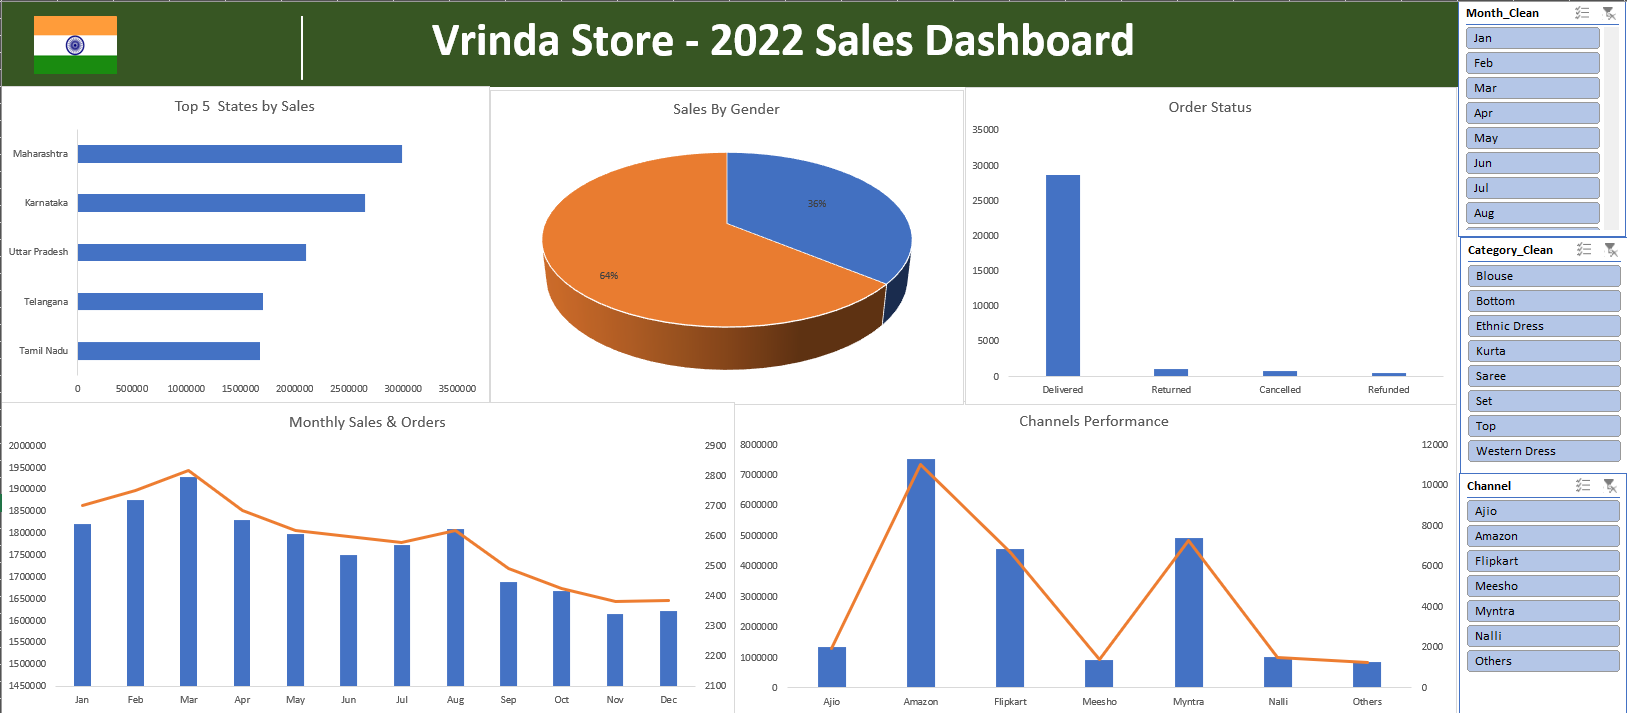
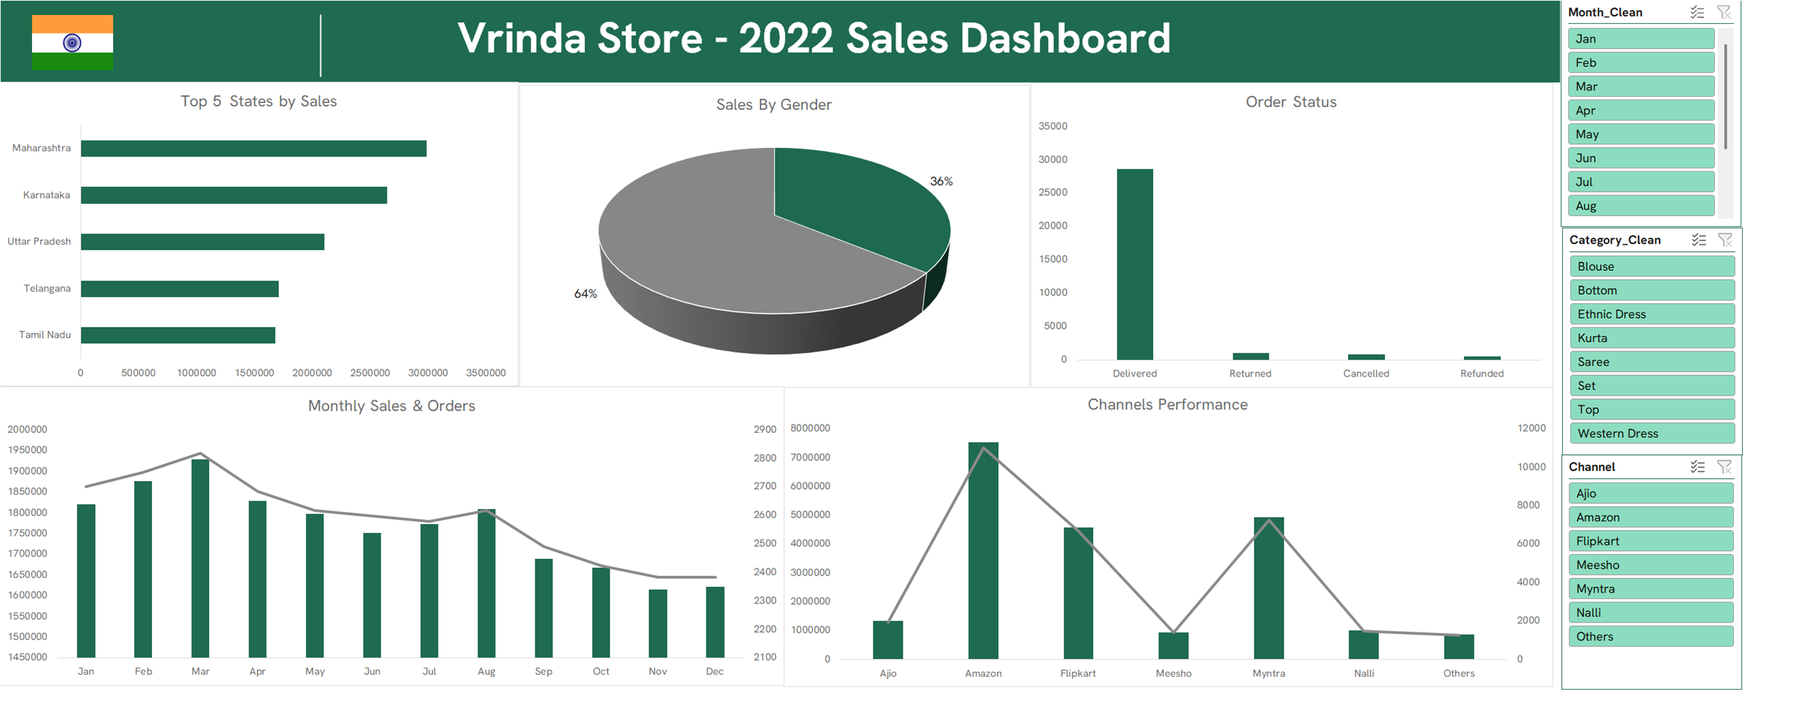
Dashboards re-themed to the brand (Hanken Grotesk, brand palette, green header); count-up on every headline figure
Excel copies re-themed and re-exported; originals kept. SDPI and NHS pages get the landing page's count-up,
and the two landing-page KPIs that stood still now count.

diff --git a/projects/sdpi-advance-funding-risk.html b/projects/sdpi-advance-funding-risk.html
@@ -140,7 +140,7 @@ html{scroll-behavior:smooth}body{margin:0}
             <div class="hero-grid">
               <div>
                 <div class="kicker">Strategic Default Pressure Index</div>
-                <div class="big">6.00<small>%</small></div>
+                <div class="big"><span data-countup>6.00</span><small>%</small></div>
                 <h2>The default-incentive threshold<span class="dot">.</span></h2>
                 <p>The market premium at which a supplier profits by not delivering.</p>
               </div>
@@ -155,9 +155,9 @@ html{scroll-behavior:smooth}body{margin:0}
           <div class="ctx"><b>One cocoa district, 2022/23 season.</b> 36 purchasing clerks funded against future delivery over 16 weeks (16 Sep to 30 Dec 2022), rebuilt from three dated risk reports on my own book. I carried the exposure personally, under bond.</div>
 
           <div class="tiles">
-            <div class="tile"><div class="n g">94.7%</div><div class="c">delivery recovery at season close, up from 80.0% at the opening report</div></div>
-            <div class="tile"><div class="n">83%</div><div class="c">of peak open exposure worked down (654 bags to 111) while funding kept growing</div></div>
-            <div class="tile"><div class="n g">4 of 36</div><div class="c">clerks carried half the open gap; 9 carried 80%; largest single 19.5%</div></div>
+            <div class="tile"><div data-countup class="n g">94.7%</div><div class="c">delivery recovery at season close, up from 80.0% at the opening report</div></div>
+            <div class="tile"><div data-countup class="n">83%</div><div class="c">of peak open exposure worked down (654 bags to 111) while funding kept growing</div></div>
+            <div class="tile"><div data-countup class="n g">4 of 36</div><div class="c">clerks carried half the open gap; 9 carried 80%; largest single 19.5%</div></div>
             <div class="tile"><div class="n">Net credit</div><div class="c">season closed GHS 9,468 in credit, from GHS 169,788 open, bond never drawn</div></div>
           </div>
 
@@ -291,6 +291,44 @@ html{scroll-behavior:smooth}body{margin:0}
     document.addEventListener('visibilitychange',function(){ document.hidden?stop():start(); });
   }
   document.addEventListener('DOMContentLoaded',function(){ hero(); reveal(); });
+})();
+</script>
+<script>
+(function(){
+  var reduce = window.matchMedia && window.matchMedia('(prefers-reduced-motion: reduce)').matches;
+  function countUp(){
+    var els=[].slice.call(document.querySelectorAll('[data-count],[data-countup]'));
+    if(!els.length) return;
+    function padFmt(n,pad){ var r=Math.round(n); return pad?String(r).padStart(pad,'0'):r.toLocaleString('en-US'); }
+    function parseNum(txt){
+      var m=txt.match(/^(.*?)(\d[\d,]*(?:\.\d+)?)(.*)$/); if(!m) return null;
+      var num=m[2], intRaw=num.split('.')[0];
+      return { prefix:m[1], suffix:m[3], target:parseFloat(num.replace(/,/g,'')),
+               dec:(num.split('.')[1]||'').length, comma:num.indexOf(',')>=0,
+               pad:/^0\d/.test(num)?intRaw.replace(/,/g,'').length:0 };
+    }
+    function fmtParsed(p,n){
+      var v=n.toFixed(p.dec), ip=v.split('.')[0], fp=p.dec?'.'+v.split('.')[1]:'';
+      if(p.comma) ip=parseInt(ip,10).toLocaleString('en-US');
+      else if(p.pad && ip.length<p.pad) ip=ip.padStart(p.pad,'0');
+      return p.prefix+ip+fp+p.suffix;
+    }
+    function animate(el){
+      if(el.dataset.done) return; el.dataset.done='1';
+      var f, target;
+      if(el.hasAttribute('data-count')){ target=parseFloat(el.getAttribute('data-count')); var pad=parseInt(el.getAttribute('data-pad')||'0',10); f=function(n){return padFmt(n,pad);}; }
+      else { var p=parseNum(el.textContent.trim()); if(!p) return; target=p.target; f=function(n){return fmtParsed(p,n);}; }
+      if(reduce){ el.textContent=f(target); return; }
+      var dur=1600, t0=performance.now();
+      function step(now){ var t=Math.min(1,(now-t0)/dur); el.textContent=f(target*(1-Math.pow(1-t,3))); if(t<1) requestAnimationFrame(step); }
+      el.textContent=f(0); requestAnimationFrame(step);
+    }
+    if('IntersectionObserver' in window){
+      var io=new IntersectionObserver(function(es){ es.forEach(function(e){ if(e.isIntersecting){ animate(e.target); io.unobserve(e.target); } }); }, {threshold:0.45});
+      els.forEach(function(el){ io.observe(el); });
+    } else { els.forEach(animate); }
+  }
+  document.addEventListener('DOMContentLoaded',countUp);
 })();
 </script>
 </body>

diff --git a/projects/nhs-cancer-pathway.html b/projects/nhs-cancer-pathway.html
@@ -112,15 +112,15 @@
 
       <div style="display:grid;grid-template-columns:repeat(3,1fr);gap:16px;margin:30px 0 0;">
         <div style="border:1px solid #e6e6e2;padding:22px 24px;">
-          <div style="font:800 34px 'Hanken Grotesk';letter-spacing:-.02em;">99.2%</div>
+          <div data-countup style="font:800 34px 'Hanken Grotesk';letter-spacing:-.02em;">99.2%</div>
           <div style="font:700 11px 'JetBrains Mono';letter-spacing:.1em;text-transform:uppercase;color:#8a8a8a;margin-top:5px;">Within the 62-day standard</div>
         </div>
         <div style="border:1px solid #e6e6e2;padding:22px 24px;">
-          <div style="font:800 34px 'Hanken Grotesk';letter-spacing:-.02em;">85%</div>
+          <div data-countup style="font:800 34px 'Hanken Grotesk';letter-spacing:-.02em;">85%</div>
           <div style="font:700 11px 'JetBrains Mono';letter-spacing:.1em;text-transform:uppercase;color:#8a8a8a;margin-top:5px;">NHS England target (cited)</div>
         </div>
         <div style="border:1px solid #e6e6e2;padding:22px 24px;">
-          <div style="font:800 34px 'Hanken Grotesk';letter-spacing:-.02em;">500 / 500</div>
+          <div data-countup style="font:800 34px 'Hanken Grotesk';letter-spacing:-.02em;">500 / 500</div>
           <div style="font:700 11px 'JetBrains Mono';letter-spacing:.1em;text-transform:uppercase;color:#8a8a8a;margin-top:5px;">Cohort verified in scope</div>
         </div>
       </div>
@@ -160,5 +160,43 @@
   </footer>
 
 </div>
+<script>
+(function(){
+  var reduce = window.matchMedia && window.matchMedia('(prefers-reduced-motion: reduce)').matches;
+  function countUp(){
+    var els=[].slice.call(document.querySelectorAll('[data-count],[data-countup]'));
+    if(!els.length) return;
+    function padFmt(n,pad){ var r=Math.round(n); return pad?String(r).padStart(pad,'0'):r.toLocaleString('en-US'); }
+    function parseNum(txt){
+      var m=txt.match(/^(.*?)(\d[\d,]*(?:\.\d+)?)(.*)$/); if(!m) return null;
+      var num=m[2], intRaw=num.split('.')[0];
+      return { prefix:m[1], suffix:m[3], target:parseFloat(num.replace(/,/g,'')),
+               dec:(num.split('.')[1]||'').length, comma:num.indexOf(',')>=0,
+               pad:/^0\d/.test(num)?intRaw.replace(/,/g,'').length:0 };
+    }
+    function fmtParsed(p,n){
+      var v=n.toFixed(p.dec), ip=v.split('.')[0], fp=p.dec?'.'+v.split('.')[1]:'';
+      if(p.comma) ip=parseInt(ip,10).toLocaleString('en-US');
+      else if(p.pad && ip.length<p.pad) ip=ip.padStart(p.pad,'0');
+      return p.prefix+ip+fp+p.suffix;
+    }
+    function animate(el){
+      if(el.dataset.done) return; el.dataset.done='1';
+      var f, target;
+      if(el.hasAttribute('data-count')){ target=parseFloat(el.getAttribute('data-count')); var pad=parseInt(el.getAttribute('data-pad')||'0',10); f=function(n){return padFmt(n,pad);}; }
+      else { var p=parseNum(el.textContent.trim()); if(!p) return; target=p.target; f=function(n){return fmtParsed(p,n);}; }
+      if(reduce){ el.textContent=f(target); return; }
+      var dur=1600, t0=performance.now();
+      function step(now){ var t=Math.min(1,(now-t0)/dur); el.textContent=f(target*(1-Math.pow(1-t,3))); if(t<1) requestAnimationFrame(step); }
+      el.textContent=f(0); requestAnimationFrame(step);
+    }
+    if('IntersectionObserver' in window){
+      var io=new IntersectionObserver(function(es){ es.forEach(function(e){ if(e.isIntersecting){ animate(e.target); io.unobserve(e.target); } }); }, {threshold:0.45});
+      els.forEach(function(el){ io.observe(el); });
+    } else { els.forEach(animate); }
+  }
+  document.addEventListener('DOMContentLoaded',countUp);
+})();
+</script>
 </body>
 </html>

diff --git a/index.html b/index.html
@@ -102,11 +102,11 @@
         <div style="font:700 12px 'JetBrains Mono';letter-spacing:.12em;text-transform:uppercase;color:#8b8f9c;margin-top:6px;">Suppliers graded by risk</div>
       </div>
       <div style="padding:34px 8px 34px 30px;border-right:1px solid rgba(255,255,255,.1);">
-        <div style="font:800 40px 'Hanken Grotesk';letter-spacing:-.02em;">100%</div>
+        <div data-countup style="font:800 40px 'Hanken Grotesk';letter-spacing:-.02em;">100%</div>
         <div style="font:700 12px 'JetBrains Mono';letter-spacing:.12em;text-transform:uppercase;color:#8b8f9c;margin-top:6px;">Defaults recovered</div>
       </div>
       <div style="padding:34px 8px 34px 30px;">
-        <div style="font:800 40px 'Hanken Grotesk';letter-spacing:-.02em;">6%</div>
+        <div data-countup style="font:800 40px 'Hanken Grotesk';letter-spacing:-.02em;">6%</div>
         <div style="font:700 12px 'JetBrains Mono';letter-spacing:.12em;text-transform:uppercase;color:#8b8f9c;margin-top:6px;">Sourcing cost cut</div>
       </div>
     </div>
@@ -177,7 +177,7 @@
 
       <!-- featured -->
       <article class="ca-card reveal" style="display:grid;grid-template-columns:1.15fr 1fr;gap:0;background:#fff;border:1px solid #e6e6e2;margin:26px 0 0;overflow:hidden;">
-        <div class="ca-thumb" style="overflow:hidden;background:#fff;border-right:1px solid #e6e6e2;"><img src="assets/screenshots/dataco.png" alt="DataCo dashboard dashboard" loading="lazy" style="display:block;width:100%;height:100%;min-height:360px;object-fit:cover;object-position:top left;"></div>
+        <div class="ca-thumb" style="overflow:hidden;background:#fff;border-right:1px solid #e6e6e2;"><img src="assets/screenshots/dataco.png" alt="DataCo late delivery and OTIF dashboard in Power BI" loading="lazy" style="display:block;width:100%;height:100%;min-height:360px;object-fit:cover;object-position:top left;"></div>
         <div style="padding:42px 44px;display:flex;flex-direction:column;justify-content:center;">
           <div style="display:flex;align-items:center;gap:12px;"><span style="font:700 12px 'Hanken Grotesk';letter-spacing:.1em;text-transform:uppercase;color:var(--acc-a);">Power BI · Method flagship · 180,519 rows</span><span style="height:1px;flex:1;background:#e6e6e2;"></span></div>
           <h3 style="font:800 30px/1.12 'Hanken Grotesk';letter-spacing:-.01em;margin:16px 0 12px;">DataCo supply chain: late delivery &amp; OTIF risk</h3>
